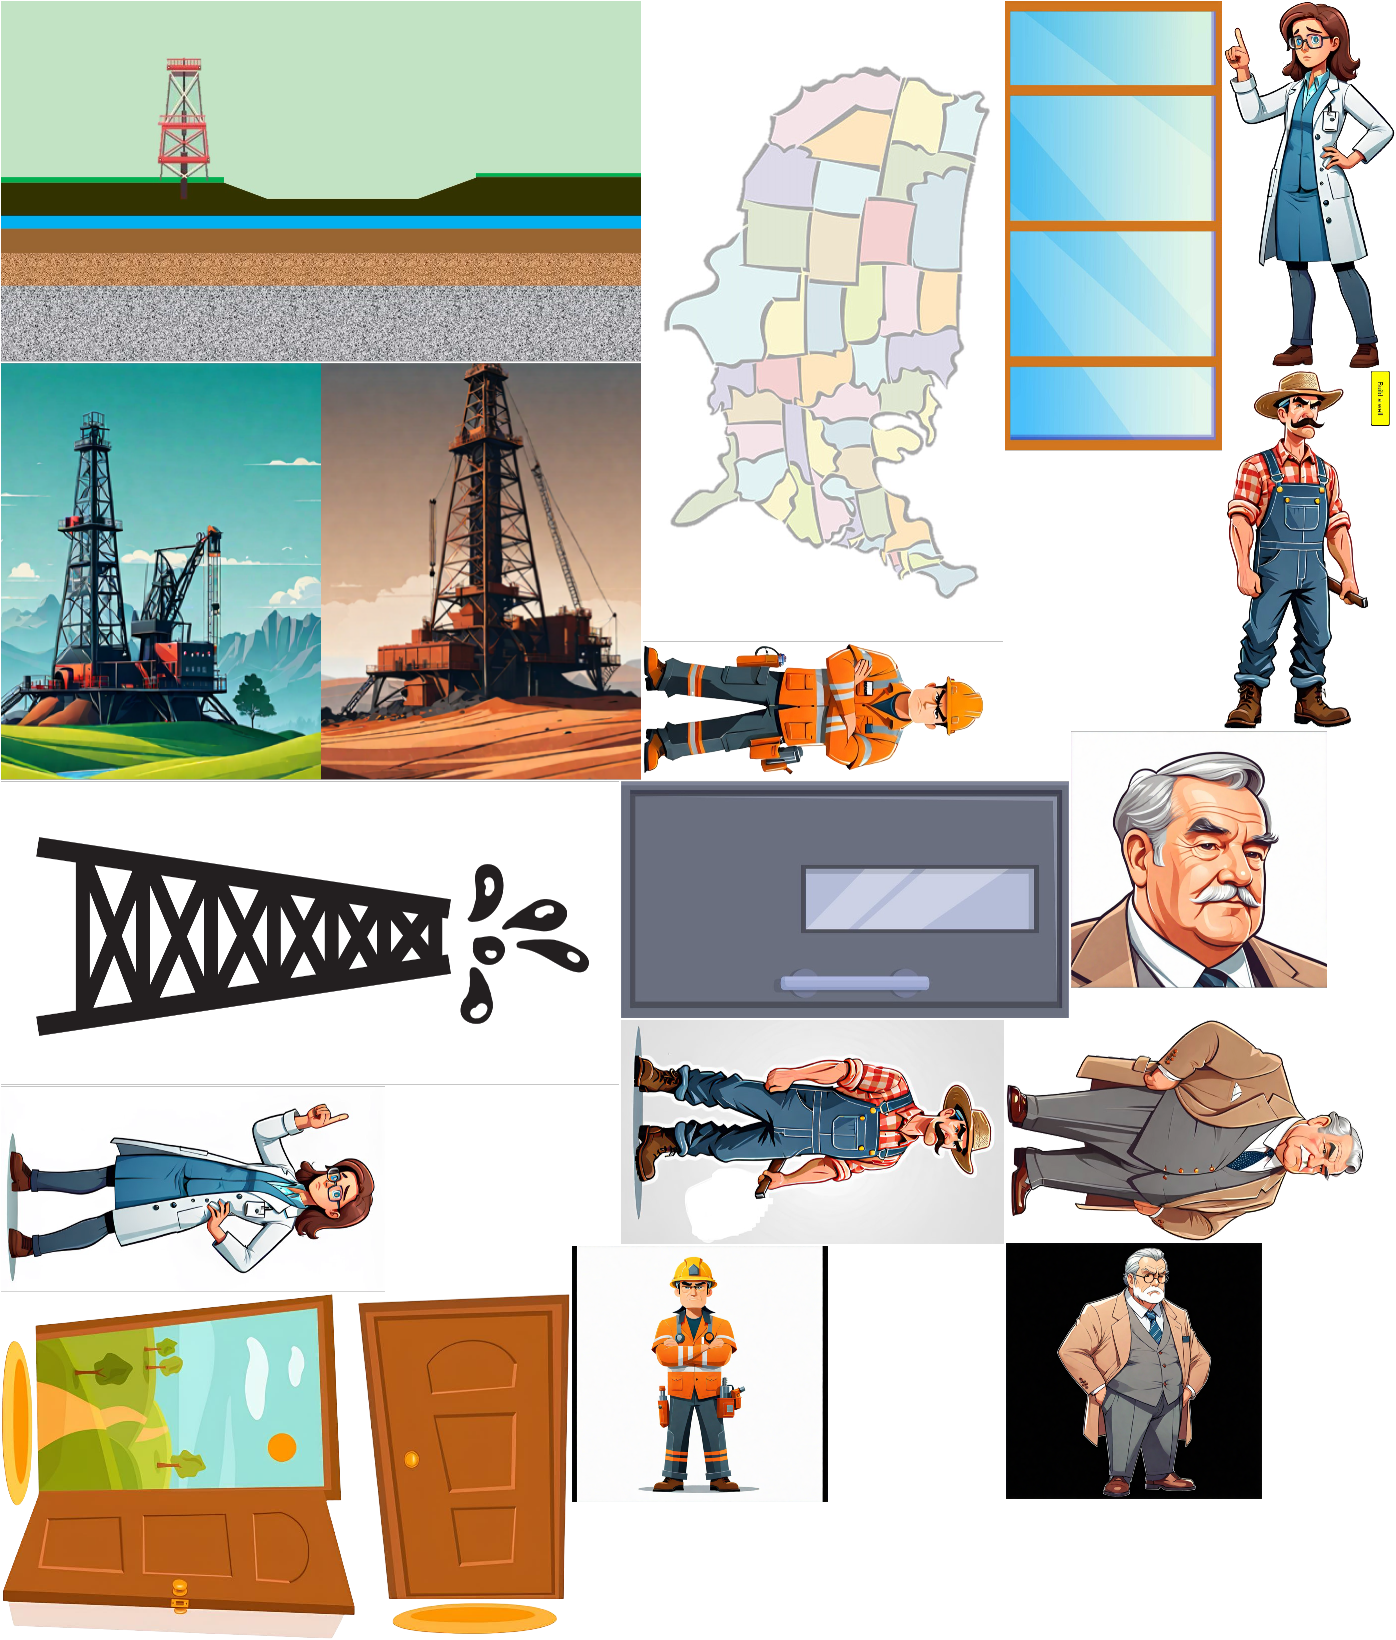
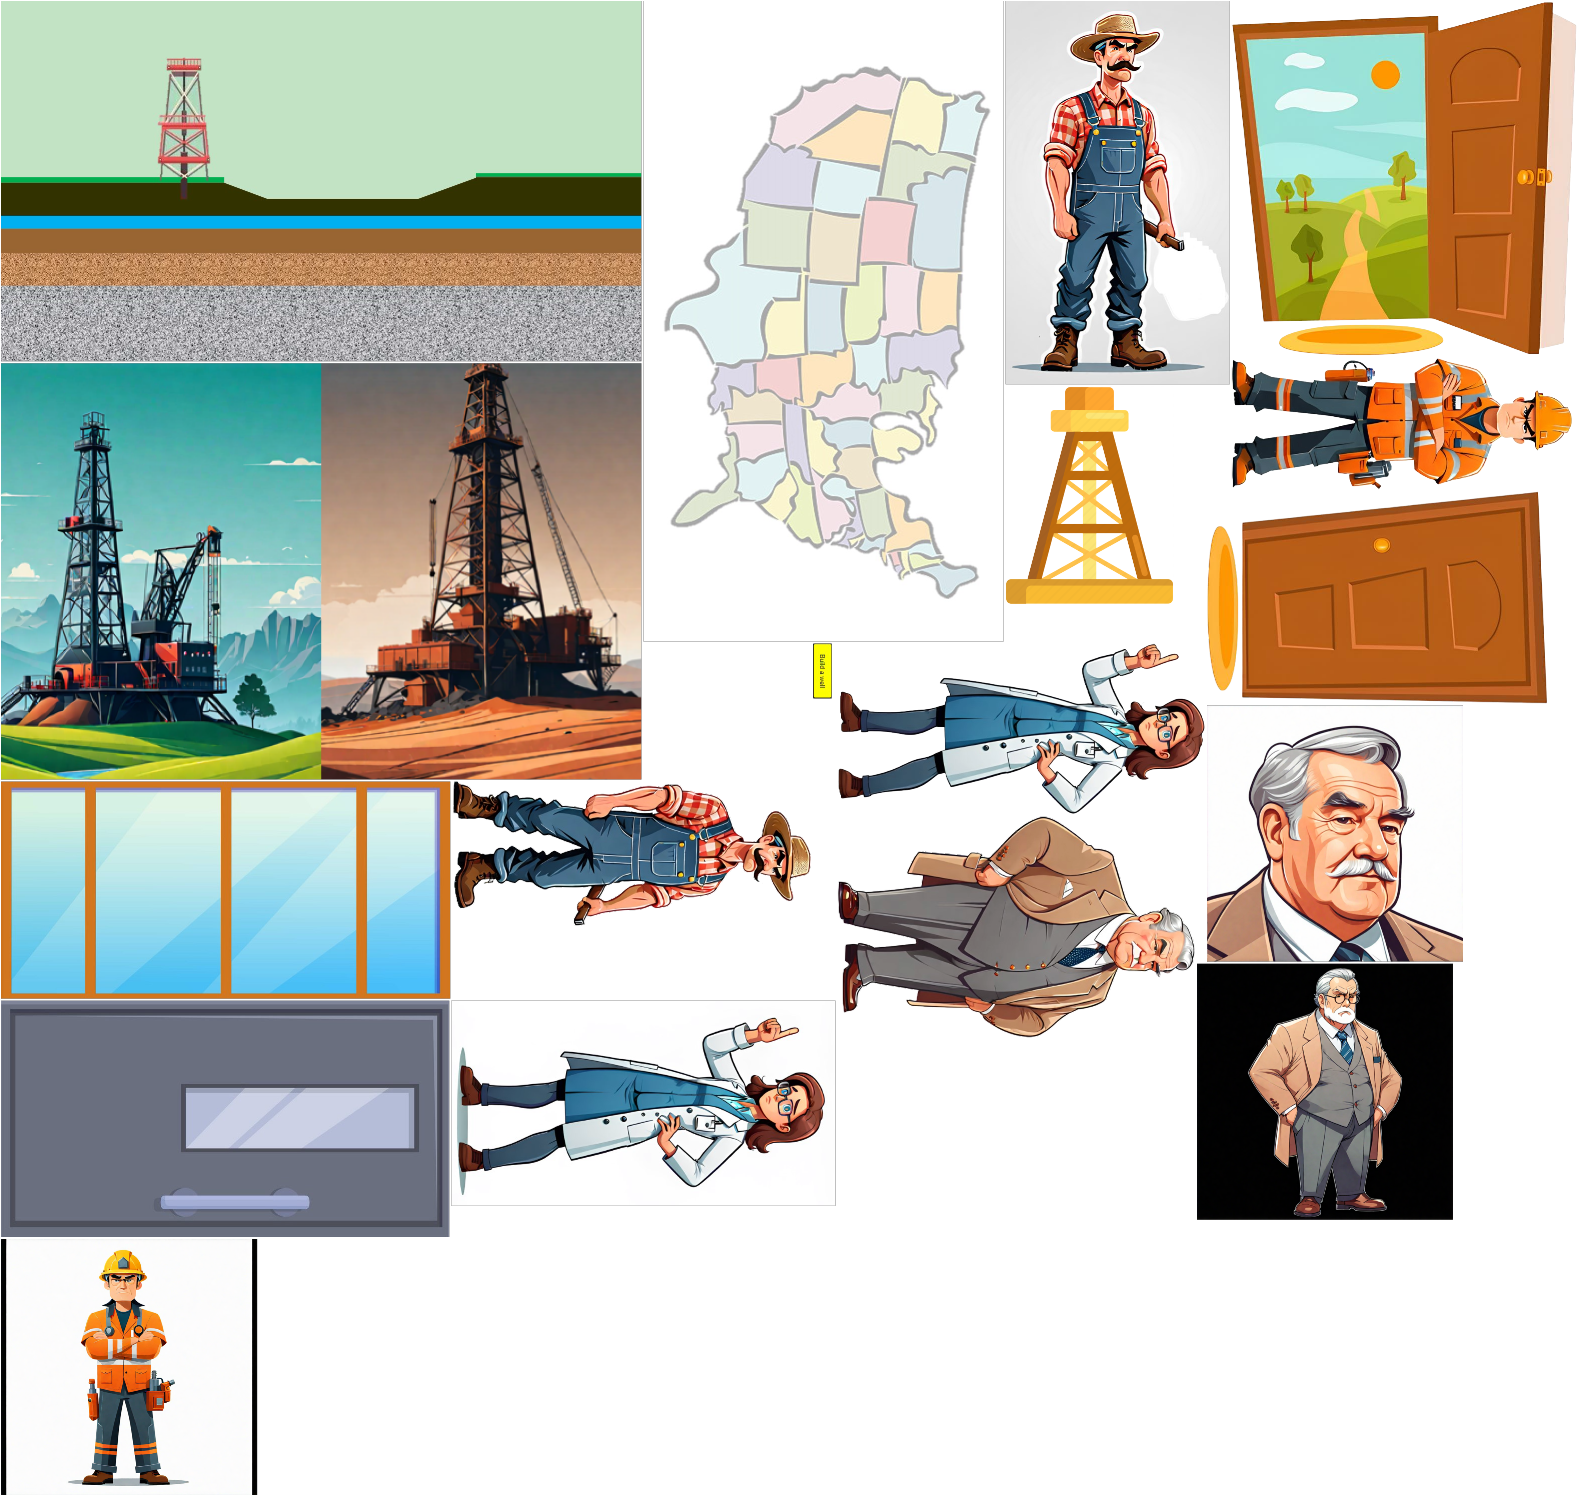
New oil well. Process page can build well

diff --git a/src/process.js b/src/process.js
@@ -26,13 +26,17 @@ document.body.appendChild(app.canvas);
 
 await initAssets();
 
+var buildButton;
+const BUILD_BUTTON_POSITION = {x: 100, y: 180};
+var oilWell;
+const WELL_POSITION = {x: 115, y: 130};
+
+const layerColors = [0xC5F9FE, 0x8CC341, 0x89613B, 0x774B26, 0x27A8E0, 0x554741, 0x736356, 0xCDAC8D]
+  const layerHeights = [250, 10, 20, 40, 30, 60, 30, 100]
+
 setup()
 
 function setup() {
-  // Define colors for dirt and rock
-  const layerColors = [0xC5F9FE, 0x8CC341, 0x89613B, 0x774B26, 0x27A8E0, 0x554741, 0x736356, 0xCDAC8D]
-  const layerHeights = [250, 10, 20, 40, 30, 60, 30, 100]
-
   // Define the width and height of each layer
   const layerWidth = app.screen.width;
 
@@ -46,12 +50,28 @@ function setup() {
     app.stage.addChild(layer);
   }
 
-  const button = Sprite.from('build-well-button');
-  button.width = 120;
-  button.height = 40;
-  button.x = 100;
-  button.y = 180;
-  app.stage.addChild(button);
+  buildButton = Sprite.from('build-well-button');
+  buildButton.width = 120;
+  buildButton.height = 40;
+  buildButton.position = BUILD_BUTTON_POSITION;
+  buildButton.eventMode = 'static';
+  buildButton.cursor = 'pointer';
+  buildButton.on('pointerdown', buildWell);
+
+  app.stage.addChild(buildButton);
+}
+
+function buildWell() {
+  app.stage.removeChild(buildButton);
+
+  oilWell = Sprite.from('oil-well');
+  oilWell.width = 90;
+  oilWell.height = 120;
+  oilWell.position = WELL_POSITION;
+  oilWell.on('pointerdown', buildWell);
+
+  app.stage.addChild(oilWell);
+  setupDrilling();
 }
 
 function setupDrilling() {
@@ -71,7 +91,7 @@ function setupDrilling() {
   function onPointerDown(event) {
       isDrawing = true;
       lastPoint = event.data.getLocalPosition(app.stage);
-      if (lastPoint.y < TOP_OF_DIRT) {
+      if (lastPoint.y < layerHeights[0] + (HOLE_WIDTH/2)) {
         console.log("Uhoh, you drilled above the ground!")
         lastPoint = null;
       }
